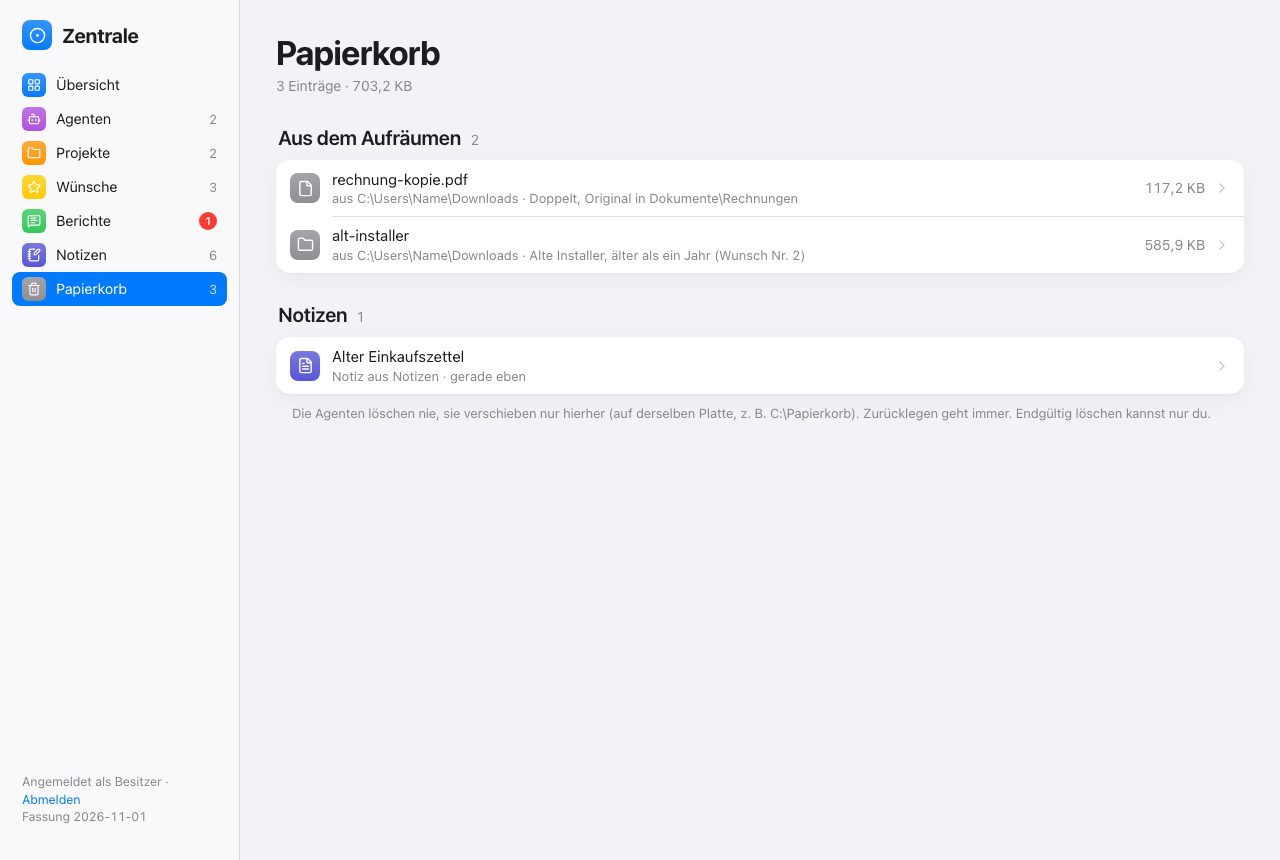
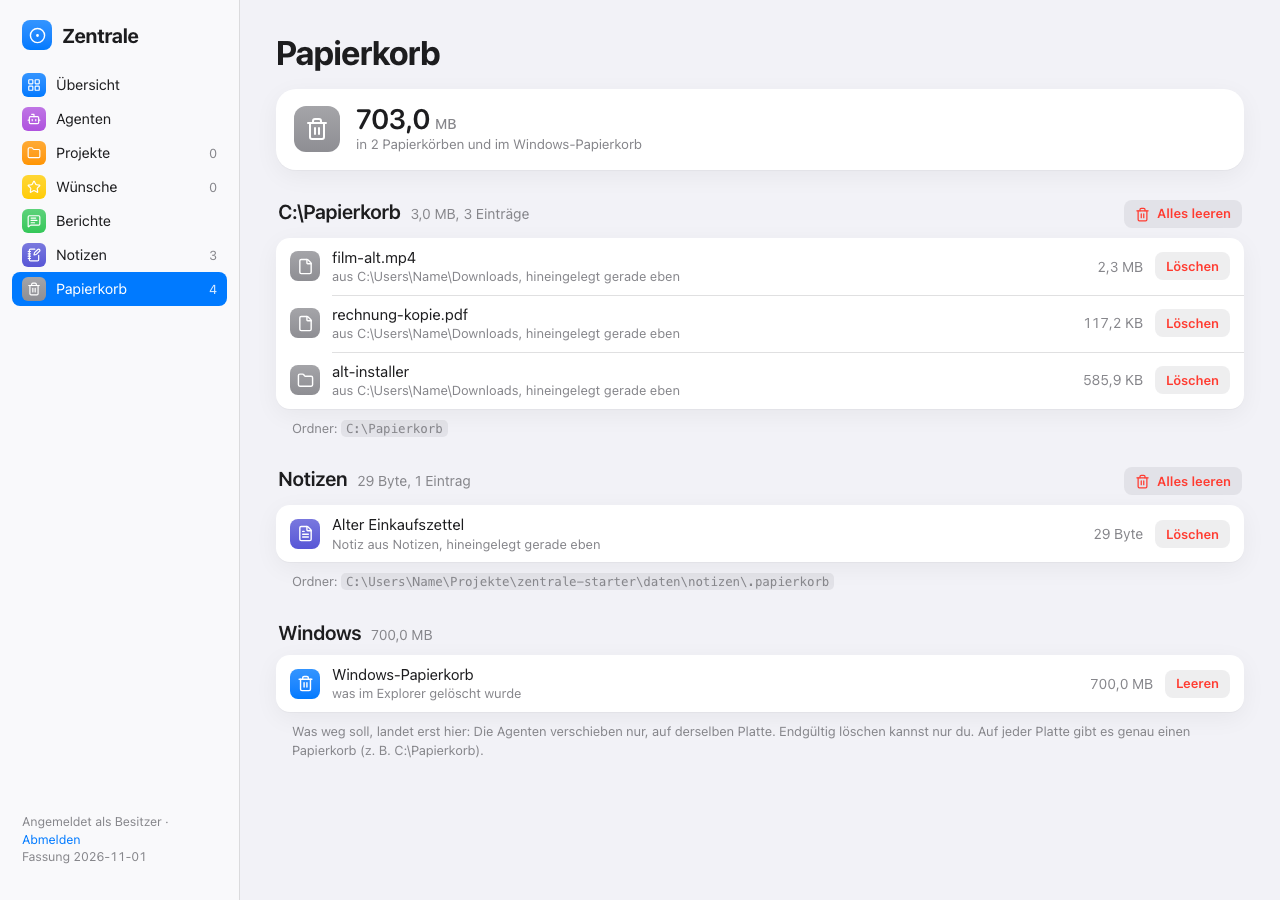
Papierkorb-Seite wie im Vorbild: Summe, je Papierkorb Alles leeren, Löschen je Zeile, Windows-Papierkorb

diff --git a/zentrale/index.html b/zentrale/index.html
@@ -111,6 +111,10 @@ button.tile:hover{transform:translateY(-1px);box-shadow:var(--shadow2)}
 .gh{display:flex;align-items:baseline;gap:10px;flex-wrap:wrap;font:600 20px/1.2 var(--disp);letter-spacing:-.012em;margin:30px 2px 10px}
 .gh:first-child{margin-top:4px}
 .gh span{font:400 14px var(--font);color:var(--ink2);letter-spacing:0}
+.gh .btn{margin-left:auto;align-self:center}
+.trhead{display:flex;flex-direction:row;align-items:center;gap:16px;margin-bottom:14px}
+.trhead .t{flex:1}.trhead .big{font-size:28px}.trhead .muted{color:var(--ink2);font-size:13.5px}
+.row>button.t{display:block;text-align:left;min-width:0}
 .gh2{font-size:13px;font-weight:400;color:var(--ink2);margin:18px 16px 7px}
 .grp{background:var(--grp);border-radius:14px;overflow:hidden;box-shadow:var(--shadow)}
 .row{display:flex;align-items:center;gap:12px;width:100%;padding:9px 14px;min-height:52px;position:relative;text-align:left;color:var(--ink)}
@@ -579,19 +583,29 @@ function viewNotizen(){
 function gr(b){ b = +b || 0; for (const e of ["Byte", "KB", "MB", "GB", "TB"]) { if (b < 1024 || e === "TB") return e === "Byte" ? `${b} Byte` : `${b.toFixed(1).replace(".", ",")} ${e}`; b /= 1024; } }
 const pkZeit = e => e.zeit ? new Date(e.zeit).getTime() / 1000 : e.zeit_s;
 const pkOrt = p => /[\\/]/.test(p || "") ? String(p).replace(/[\\/][^\\/]*$/, "") : "";
-function pkZeile(e){
-  return row(sq(e.typ === "ordner" ? "folder" : "file", e.da ? "gray" : "red"), esc(e.name), (e.da ? "aus " + esc(pkOrt(e.von)) : "fehlt im Papierkorb") + (e.grund ? " · " + esc(e.grund) : ""), val(esc(gr(e.bytes))), sh("pk:" + e.nr));
+/* Wie die Papierkorb-Seite im Vorbild: oben die Summe, je Papierkorb ein Abschnitt mit „Alles leeren“, in jeder Zeile
+   „Löschen“, dazu der Windows-Papierkorb. Antippen des Namens öffnet das Blatt mit „Zurücklegen“. */
+function pkKnopf(daten, groesse, text){ return `<button class="btn sm danger" type="button" data-act="pkleeren" ${daten} data-groesse="${esc(groesse)}">${text}</button>`; }
+function pkZeile(e, notiz){
+  const sub = notiz ? ["Notiz aus " + (pkOrt(e.von) || "Notizen"), "hineingelegt " + ago(e.zeit_s)] : [e.da ? "aus " + pkOrt(e.von) : "fehlt im Papierkorb", "hineingelegt " + ago(pkZeit(e))];
+  const blatt = notiz ? "pkn:" + e.pfad : "pk:" + e.nr, daten = notiz ? `data-notiz="${esc(e.pfad)}"` : `data-nr="${e.nr}"`;
+  return `<div class="row">${sq(notiz ? "file-text" : e.typ === "ordner" ? "folder" : "file", notiz ? "indigo" : e.da ? "gray" : "red")}<button type="button" class="t" ${sh(blatt)}><b>${esc(e.name)}</b><span>${esc(sub.join(", "))}</span></button>${val(esc(gr(e.bytes)))}${pkKnopf(daten, gr(e.bytes), "Löschen")}</div>`;
 }
-function pkNotizZeile(n){ return row(sq("file-text", "indigo"), esc(n.name), "Notiz aus " + esc(pkOrt(n.von) || "Notizen") + " · " + esc(ago(n.zeit_s)), "", sh("pkn:" + n.pfad)); }
+function pkSektion(o){
+  const E = o.eintraege || [], n = E.length;
+  return `<h2 class="gh">${esc(o.titel)}<span>${esc(gr(o.bytes))}${n ? `, ${n} ${n === 1 ? "Eintrag" : "Einträge"}` : ", leer"}</span>${n ? pkKnopf(`data-alles="${esc(o.key)}"`, gr(o.bytes), `${icon("trash-2")}Alles leeren`) : ""}</h2>`
+    + (n ? grp(more("pk-" + o.key, E, 10, e => pkZeile(e, o.notizen))) : `<p class="note" style="margin-top:0">Leer. Ordner: <code>${esc(o.pfad)}</code></p>`)
+    + (n ? note(`Ordner: <code>${esc(o.pfad)}</code>`) : "");
+}
 function viewPapierkorb(){
   const K = D.papierkorb;
   if (!K) return kopf("Papierkorb", "") + empty("<b>Papierkorb nicht verfügbar</b>Die Zentrale läuft noch mit einer alten Fassung. Bitte neu starten.", "trash-2");
-  const E = K.eintraege, N = K.notizen;
-  return kopf("Papierkorb", `${E.length + N.length} Einträge · ${esc(gr(K.bytes))}`)
-    + (E.length ? gh("Aus dem Aufräumen", E.length) + grp(more("pk", E, 10, pkZeile)) : "")
-    + (N.length ? gh("Notizen", N.length) + grp(more("pkn", N, 6, pkNotizZeile)) : "")
-    + (!E.length && !N.length ? empty("<b>Der Papierkorb ist leer</b>Was weg soll, verschieben die Agenten hierher. Gelöscht wird nichts.", "trash-2") : "")
-    + note("Die Agenten löschen nie, sie verschieben nur hierher (auf derselben Platte, z. B. C:\\Papierkorb). Zurücklegen geht immer. Endgültig löschen kannst nur du.");
+  const O = K.orte || [], win = K.windows_bytes;
+  return kopf("Papierkorb", "")
+    + `<div class="tile trhead">${sq("trash-2", "gray", "xl")}<div class="t"><div class="big">${esc(gr(K.bytes)).replace(/ (\w+)$/, "<small>$1</small>")}</div><span class="muted">in ${O.length} ${O.length === 1 ? "Papierkorb" : "Papierkörben"}${win != null ? " und im Windows-Papierkorb" : ""}</span></div></div>`
+    + O.map(pkSektion).join("")
+    + (win != null ? gh("Windows", esc(gr(win))) + grp(`<div class="row">${sq("trash-2", "blue")}<span class="t"><b>Windows-Papierkorb</b><span>was im Explorer gelöscht wurde</span></span>${val(esc(gr(win)))}${win ? pkKnopf(`data-windows="1"`, gr(win), "Leeren") : ""}</div>`) : "")
+    + note("Was weg soll, landet erst hier: Die Agenten verschieben nur, auf derselben Platte. Endgültig löschen kannst nur du. Auf jeder Platte gibt es genau einen Papierkorb (z. B. C:\\Papierkorb).");
 }
 const VIEWS = {uebersicht: viewUebersicht, agenten: viewAgenten, projekte: viewProjekte, wuensche: viewWuensche, berichte: viewBerichte, notizen: viewNotizen, papierkorb: viewPapierkorb};
 function renderPage(){
@@ -729,6 +743,13 @@ document.addEventListener("click", async e => {
     case "woffen": return post(`/api/wuensche/${id}`, {status: "offen"});
     case "pkzurueck": if (await post("/api/papierkorb/zurueck", {nr: +id})) { closeSheet(); toast("Zurückgelegt"); } return;
     case "pknzurueck": if (await post("/api/papierkorb/zurueck", {notiz: id})) { closeSheet(); toast("Zurückgelegt"); } return;
+    case "pkleeren": {
+      const d = t.dataset, alles = !!d.alles, win = !!d.windows, name = t.closest(".row")?.querySelector("b")?.textContent || "";
+      if (!(await bestaetigen(alles ? "Diesen Papierkorb endgültig leeren?" : win ? "Den Windows-Papierkorb endgültig leeren?" : `„${name}“ endgültig löschen?`,
+        `Das sind ${d.groesse}. Das lässt sich nicht rückgängig machen.`, alles || win ? "Endgültig leeren" : "Endgültig löschen", true))) return;
+      t.disabled = true;
+      if (await post("/api/papierkorb/loeschen", alles ? {alles: d.alles} : win ? {windows: true} : d.notiz ? {notiz: d.notiz} : {nr: +d.nr})) toast(alles || win ? "Geleert" : "Gelöscht"); else t.disabled = false;
+      return; }
     case "pkweg": case "pknweg":
       if (await bestaetigen("Endgültig löschen?", "Das lässt sich nicht rückgängig machen.", "Löschen", true) && await post("/api/papierkorb/loeschen", t.dataset.act === "pkweg" ? {nr: +id} : {notiz: id})) { closeSheet(); toast("Gelöscht"); }
       return;

diff --git a/zentrale/index.src.html b/zentrale/index.src.html
@@ -111,6 +111,10 @@ button.tile:hover{transform:translateY(-1px);box-shadow:var(--shadow2)}
 .gh{display:flex;align-items:baseline;gap:10px;flex-wrap:wrap;font:600 20px/1.2 var(--disp);letter-spacing:-.012em;margin:30px 2px 10px}
 .gh:first-child{margin-top:4px}
 .gh span{font:400 14px var(--font);color:var(--ink2);letter-spacing:0}
+.gh .btn{margin-left:auto;align-self:center}
+.trhead{display:flex;flex-direction:row;align-items:center;gap:16px;margin-bottom:14px}
+.trhead .t{flex:1}.trhead .big{font-size:28px}.trhead .muted{color:var(--ink2);font-size:13.5px}
+.row>button.t{display:block;text-align:left;min-width:0}
 .gh2{font-size:13px;font-weight:400;color:var(--ink2);margin:18px 16px 7px}
 .grp{background:var(--grp);border-radius:14px;overflow:hidden;box-shadow:var(--shadow)}
 .row{display:flex;align-items:center;gap:12px;width:100%;padding:9px 14px;min-height:52px;position:relative;text-align:left;color:var(--ink)}
@@ -579,19 +583,29 @@ function viewNotizen(){
 function gr(b){ b = +b || 0; for (const e of ["Byte", "KB", "MB", "GB", "TB"]) { if (b < 1024 || e === "TB") return e === "Byte" ? `${b} Byte` : `${b.toFixed(1).replace(".", ",")} ${e}`; b /= 1024; } }
 const pkZeit = e => e.zeit ? new Date(e.zeit).getTime() / 1000 : e.zeit_s;
 const pkOrt = p => /[\\/]/.test(p || "") ? String(p).replace(/[\\/][^\\/]*$/, "") : "";
-function pkZeile(e){
-  return row(sq(e.typ === "ordner" ? "folder" : "file", e.da ? "gray" : "red"), esc(e.name), (e.da ? "aus " + esc(pkOrt(e.von)) : "fehlt im Papierkorb") + (e.grund ? " · " + esc(e.grund) : ""), val(esc(gr(e.bytes))), sh("pk:" + e.nr));
+/* Wie die Papierkorb-Seite im Vorbild: oben die Summe, je Papierkorb ein Abschnitt mit „Alles leeren“, in jeder Zeile
+   „Löschen“, dazu der Windows-Papierkorb. Antippen des Namens öffnet das Blatt mit „Zurücklegen“. */
+function pkKnopf(daten, groesse, text){ return `<button class="btn sm danger" type="button" data-act="pkleeren" ${daten} data-groesse="${esc(groesse)}">${text}</button>`; }
+function pkZeile(e, notiz){
+  const sub = notiz ? ["Notiz aus " + (pkOrt(e.von) || "Notizen"), "hineingelegt " + ago(e.zeit_s)] : [e.da ? "aus " + pkOrt(e.von) : "fehlt im Papierkorb", "hineingelegt " + ago(pkZeit(e))];
+  const blatt = notiz ? "pkn:" + e.pfad : "pk:" + e.nr, daten = notiz ? `data-notiz="${esc(e.pfad)}"` : `data-nr="${e.nr}"`;
+  return `<div class="row">${sq(notiz ? "file-text" : e.typ === "ordner" ? "folder" : "file", notiz ? "indigo" : e.da ? "gray" : "red")}<button type="button" class="t" ${sh(blatt)}><b>${esc(e.name)}</b><span>${esc(sub.join(", "))}</span></button>${val(esc(gr(e.bytes)))}${pkKnopf(daten, gr(e.bytes), "Löschen")}</div>`;
 }
-function pkNotizZeile(n){ return row(sq("file-text", "indigo"), esc(n.name), "Notiz aus " + esc(pkOrt(n.von) || "Notizen") + " · " + esc(ago(n.zeit_s)), "", sh("pkn:" + n.pfad)); }
+function pkSektion(o){
+  const E = o.eintraege || [], n = E.length;
+  return `<h2 class="gh">${esc(o.titel)}<span>${esc(gr(o.bytes))}${n ? `, ${n} ${n === 1 ? "Eintrag" : "Einträge"}` : ", leer"}</span>${n ? pkKnopf(`data-alles="${esc(o.key)}"`, gr(o.bytes), `${icon("trash-2")}Alles leeren`) : ""}</h2>`
+    + (n ? grp(more("pk-" + o.key, E, 10, e => pkZeile(e, o.notizen))) : `<p class="note" style="margin-top:0">Leer. Ordner: <code>${esc(o.pfad)}</code></p>`)
+    + (n ? note(`Ordner: <code>${esc(o.pfad)}</code>`) : "");
+}
 function viewPapierkorb(){
   const K = D.papierkorb;
   if (!K) return kopf("Papierkorb", "") + empty("<b>Papierkorb nicht verfügbar</b>Die Zentrale läuft noch mit einer alten Fassung. Bitte neu starten.", "trash-2");
-  const E = K.eintraege, N = K.notizen;
-  return kopf("Papierkorb", `${E.length + N.length} Einträge · ${esc(gr(K.bytes))}`)
-    + (E.length ? gh("Aus dem Aufräumen", E.length) + grp(more("pk", E, 10, pkZeile)) : "")
-    + (N.length ? gh("Notizen", N.length) + grp(more("pkn", N, 6, pkNotizZeile)) : "")
-    + (!E.length && !N.length ? empty("<b>Der Papierkorb ist leer</b>Was weg soll, verschieben die Agenten hierher. Gelöscht wird nichts.", "trash-2") : "")
-    + note("Die Agenten löschen nie, sie verschieben nur hierher (auf derselben Platte, z. B. C:\\Papierkorb). Zurücklegen geht immer. Endgültig löschen kannst nur du.");
+  const O = K.orte || [], win = K.windows_bytes;
+  return kopf("Papierkorb", "")
+    + `<div class="tile trhead">${sq("trash-2", "gray", "xl")}<div class="t"><div class="big">${esc(gr(K.bytes)).replace(/ (\w+)$/, "<small>$1</small>")}</div><span class="muted">in ${O.length} ${O.length === 1 ? "Papierkorb" : "Papierkörben"}${win != null ? " und im Windows-Papierkorb" : ""}</span></div></div>`
+    + O.map(pkSektion).join("")
+    + (win != null ? gh("Windows", esc(gr(win))) + grp(`<div class="row">${sq("trash-2", "blue")}<span class="t"><b>Windows-Papierkorb</b><span>was im Explorer gelöscht wurde</span></span>${val(esc(gr(win)))}${win ? pkKnopf(`data-windows="1"`, gr(win), "Leeren") : ""}</div>`) : "")
+    + note("Was weg soll, landet erst hier: Die Agenten verschieben nur, auf derselben Platte. Endgültig löschen kannst nur du. Auf jeder Platte gibt es genau einen Papierkorb (z. B. C:\\Papierkorb).");
 }
 const VIEWS = {uebersicht: viewUebersicht, agenten: viewAgenten, projekte: viewProjekte, wuensche: viewWuensche, berichte: viewBerichte, notizen: viewNotizen, papierkorb: viewPapierkorb};
 function renderPage(){
@@ -729,6 +743,13 @@ document.addEventListener("click", async e => {
     case "woffen": return post(`/api/wuensche/${id}`, {status: "offen"});
     case "pkzurueck": if (await post("/api/papierkorb/zurueck", {nr: +id})) { closeSheet(); toast("Zurückgelegt"); } return;
     case "pknzurueck": if (await post("/api/papierkorb/zurueck", {notiz: id})) { closeSheet(); toast("Zurückgelegt"); } return;
+    case "pkleeren": {
+      const d = t.dataset, alles = !!d.alles, win = !!d.windows, name = t.closest(".row")?.querySelector("b")?.textContent || "";
+      if (!(await bestaetigen(alles ? "Diesen Papierkorb endgültig leeren?" : win ? "Den Windows-Papierkorb endgültig leeren?" : `„${name}“ endgültig löschen?`,
+        `Das sind ${d.groesse}. Das lässt sich nicht rückgängig machen.`, alles || win ? "Endgültig leeren" : "Endgültig löschen", true))) return;
+      t.disabled = true;
+      if (await post("/api/papierkorb/loeschen", alles ? {alles: d.alles} : win ? {windows: true} : d.notiz ? {notiz: d.notiz} : {nr: +d.nr})) toast(alles || win ? "Geleert" : "Gelöscht"); else t.disabled = false;
+      return; }
     case "pkweg": case "pknweg":
       if (await bestaetigen("Endgültig löschen?", "Das lässt sich nicht rückgängig machen.", "Löschen", true) && await post("/api/papierkorb/loeschen", t.dataset.act === "pkweg" ? {nr: +id} : {notiz: id})) { closeSheet(); toast("Gelöscht"); }
       return;

diff --git a/zentrale/papierkorb.py b/zentrale/papierkorb.py
@@ -1,17 +1,22 @@
-"""Zentrale: Papierkorb (Seite „Papierkorb“). Was die Agenten weggeräumt haben, an einem Ort.
+r"""Zentrale: Papierkorb (Seite „Papierkorb“). Was die Agenten weggeräumt haben, an einem Ort.
 
 Zwei Quellen, beide auf derselben Platte wie vorher, gelöscht wurde nichts:
   - Aufräumen: Schritte mit art „papierkorb“ aus aufraeumen/protokoll.jsonl (verschoben mit verschieben.py --papierkorb),
-    die noch nicht zurückgeholt und nicht endgültig gelöscht sind. Sie liegen in <Laufwerk>:\\Papierkorb\\<datum>\\….
+    die noch nicht zurückgeholt und nicht endgültig gelöscht sind. Sie liegen in <Laufwerk>:\Papierkorb\<datum>\….
   - Notizen: Dateien im versteckten Ordner .papierkorb/<datum>/… im Notizen-Ordner.
 
+Wie in der Zentrale des Vorbilds: je Papierkorb (C:\Papierkorb, D:\Papierkorb, Notizen) ein Abschnitt mit Größe und
+„Alles leeren“, dazu der Windows-Papierkorb (was im Explorer gelöscht wurde) mit Größe und „Leeren“.
 Zurücklegen dürfen Agenten und der Besitzer. **Endgültig löschen darf nur der Besitzer** (Schlüssel „besitzer“),
 das prüft app.py, und auch hier nur, was wirklich in einem Ordner „Papierkorb“ bzw. „.papierkorb“ liegt.
 """
 import os
 import shutil
+import string
+import subprocess
 import sys
 import threading
+import time
 from pathlib import Path
 
 import hub
@@ -37,6 +42,57 @@ def _im_papierkorb(p, name="Papierkorb"):
     return any(x.name.lower() == name.lower() for x in p.parents)
 
 
+def _wurzel(p):
+    r"""Der Ordner „Papierkorb“, in dem p liegt (z. B. C:\Papierkorb)."""
+    for x in Path(p).absolute().parents:
+        if x.name.lower() == "papierkorb":
+            return x
+    return Path(p).absolute().parent
+
+
+def _bekannte_wurzeln():
+    """Papierkörbe, die es gibt, auch wenn das Protokoll noch nichts darin kennt."""
+    if os.environ.get("AUFRAEUMEN_PAPIERKORB"):
+        W = [Path(os.environ["AUFRAEUMEN_PAPIERKORB"]).expanduser().absolute()]
+    elif os.name == "nt":
+        W = [Path(f"{b}:\\Papierkorb") for b in string.ascii_uppercase]
+    else:
+        W = [Path.home() / "Papierkorb"]
+    return [w for w in W if w.is_dir()]
+
+
+_system = {"t": 0, "bytes": None}
+
+
+def _windows_papierkorb():
+    r"""Größe des Windows-Papierkorbs dieses Benutzers über alle Laufwerke (X:\$Recycle.Bin\<SID>). Nur Windows,
+    höchstens einmal pro Minute gemessen. None, wenn es nicht geht."""
+    if os.name != "nt":
+        return None
+    if time.time() - _system["t"] < 60:
+        return _system["bytes"]
+    n = None
+    try:
+        sid = subprocess.run(["whoami", "/user", "/fo", "csv", "/nh"], capture_output=True, text=True, timeout=10,
+                             creationflags=getattr(subprocess, "CREATE_NO_WINDOW", 0)).stdout.strip().split(",")[-1].strip('"')
+        if sid.startswith("S-1-"):
+            n = 0
+            for b in string.ascii_uppercase:
+                d = Path(f"{b}:\\$Recycle.Bin") / sid
+                if d.is_dir():
+                    for wurzel, _, dateien in os.walk(d):
+                        for f in dateien:
+                            if not f.startswith("$I"):   # $I… sind nur die kleinen Begleitdateien
+                                try:
+                                    n += os.lstat(os.path.join(wurzel, f)).st_size
+                                except OSError:
+                                    pass
+    except (OSError, subprocess.SubprocessError):
+        n = None
+    _system.update(t=time.time(), bytes=n)
+    return n
+
+
 def liste():
     E = []
     for e in reversed(_schritte()):
@@ -59,7 +115,16 @@ def liste():
                 N.append({"art": "notiz", "pfad": rel, "name": Path(alt or rel).stem, "von": alt, "tag": tag, "bytes": st.st_size,
                           "zeit_s": int(st.st_mtime)})
     N.sort(key=lambda x: -x["zeit_s"])
-    return {"eintraege": E, "notizen": N, "bytes": sum(x["bytes"] for x in E if x["da"]) + sum(x["bytes"] for x in N)}
+    orte = {}
+    for w in _bekannte_wurzeln():
+        orte[str(w)] = []
+    for e in E:
+        orte.setdefault(str(_wurzel(e["nach"])), []).append(e)
+    O = [{"key": w, "titel": w, "pfad": w, "eintraege": L, "bytes": sum(x["bytes"] for x in L if x["da"])} for w, L in sorted(orte.items())]
+    O.append({"key": "notizen", "titel": "Notizen", "pfad": str(notizen.PAPIERKORB), "notizen": True, "eintraege": N, "bytes": sum(x["bytes"] for x in N)})
+    win = _windows_papierkorb()
+    return {"orte": O, "windows_bytes": win, "eintraege": E, "notizen": N,
+            "bytes": sum(o["bytes"] for o in O) + (win or 0)}
 
 
 def _schritt(nr):
@@ -122,7 +187,33 @@ def zuruecklegen(b):
 
 
 def loeschen(b):
-    """Endgültig löschen (nur der Besitzer, siehe app.py). Kommt ins Protokoll."""
+    """Endgültig löschen (nur der Besitzer, siehe app.py). b: {nr} | {notiz} | {alles: <key eines Abschnitts>} | {windows: true}."""
+    if b.get("windows"):
+        if os.name != "nt":
+            raise ValueError("Den Windows-Papierkorb gibt es nur unter Windows.")
+        r = subprocess.run(["powershell", "-NoProfile", "-Command", "Clear-RecycleBin -Force -ErrorAction Stop"], capture_output=True,
+                           text=True, timeout=300, creationflags=getattr(subprocess, "CREATE_NO_WINDOW", 0))
+        _system["t"] = 0
+        if r.returncode:
+            raise ValueError("Der Windows-Papierkorb ließ sich nicht leeren: " + (r.stderr.strip()[:200] or "unbekannter Fehler"))
+        return {"ok": True}
+    if b.get("alles"):
+        ort = next((o for o in liste()["orte"] if o["key"] == b["alles"]), None)
+        if not ort:
+            raise ValueError("Diesen Papierkorb gibt es nicht.")
+        fehler = []
+        for e in ort["eintraege"]:
+            try:
+                _loeschen_eins({"notiz": e["pfad"]} if ort.get("notizen") else {"nr": e["nr"]})
+            except (ValueError, OSError) as x:
+                fehler.append(f"{e['name']}: {x}")
+        if fehler:
+            raise ValueError("Nicht alles ging: " + "; ".join(fehler)[:400])
+        return {"ok": True}
+    return _loeschen_eins(b)
+
+
+def _loeschen_eins(b):
     with _sperre:
         if b.get("notiz"):
             p, _ = _notiz(b["notiz"])

diff --git a/docs/REFERENZ.md b/docs/REFERENZ.md
@@ -18,7 +18,7 @@ Größere Änderungen nur nach Entwurf als Bild und OK des Besitzers (`REGELN.md
 | ![](bilder/06-projekte.png) | **Projekte** | Aktiv, ruht, Archiv; je Projekt „Als Nächstes“. |
 | ![](bilder/07-notizen.png) | **Notizen** | Oben die festen Ordner (Besitzer, Geräte, Projekte, Aufräumen, Anleitungen, Übergaben), darunter das zuletzt Geänderte. |
 | ![](bilder/12-notizen-ordner.png) | Ordner geöffnet | „‹ Alle Notizen“ führt zurück. |
-| ![](bilder/08-papierkorb.png) | **Papierkorb** | Was die Agenten weggeräumt haben, mit Herkunft, Grund und Größe. |
-| ![](bilder/09-papierkorb-blatt.png) | Eintrag geöffnet | „Zurücklegen“ und „Endgültig löschen“ (nur der Besitzer). |
+| ![](bilder/08-papierkorb.png) | **Papierkorb** | Oben die Summe. Je Papierkorb (C:\Papierkorb, Notizen) ein Abschnitt mit „Alles leeren“, in jeder Zeile „Löschen“, unten der Windows-Papierkorb mit „Leeren“. Löschen kann nur der Besitzer. |
+| ![](bilder/09-papierkorb-blatt.png) | Name angetippt | Herkunft, Grund, Schritt im Protokoll, „Zurücklegen“. |
 | ![](bilder/10-uebersicht-dunkel.png) | dunkel | Folgt der Einstellung von Windows. |
 | ![](bilder/11-handy-agenten.png) | Handy | Leiste unten statt links. |
